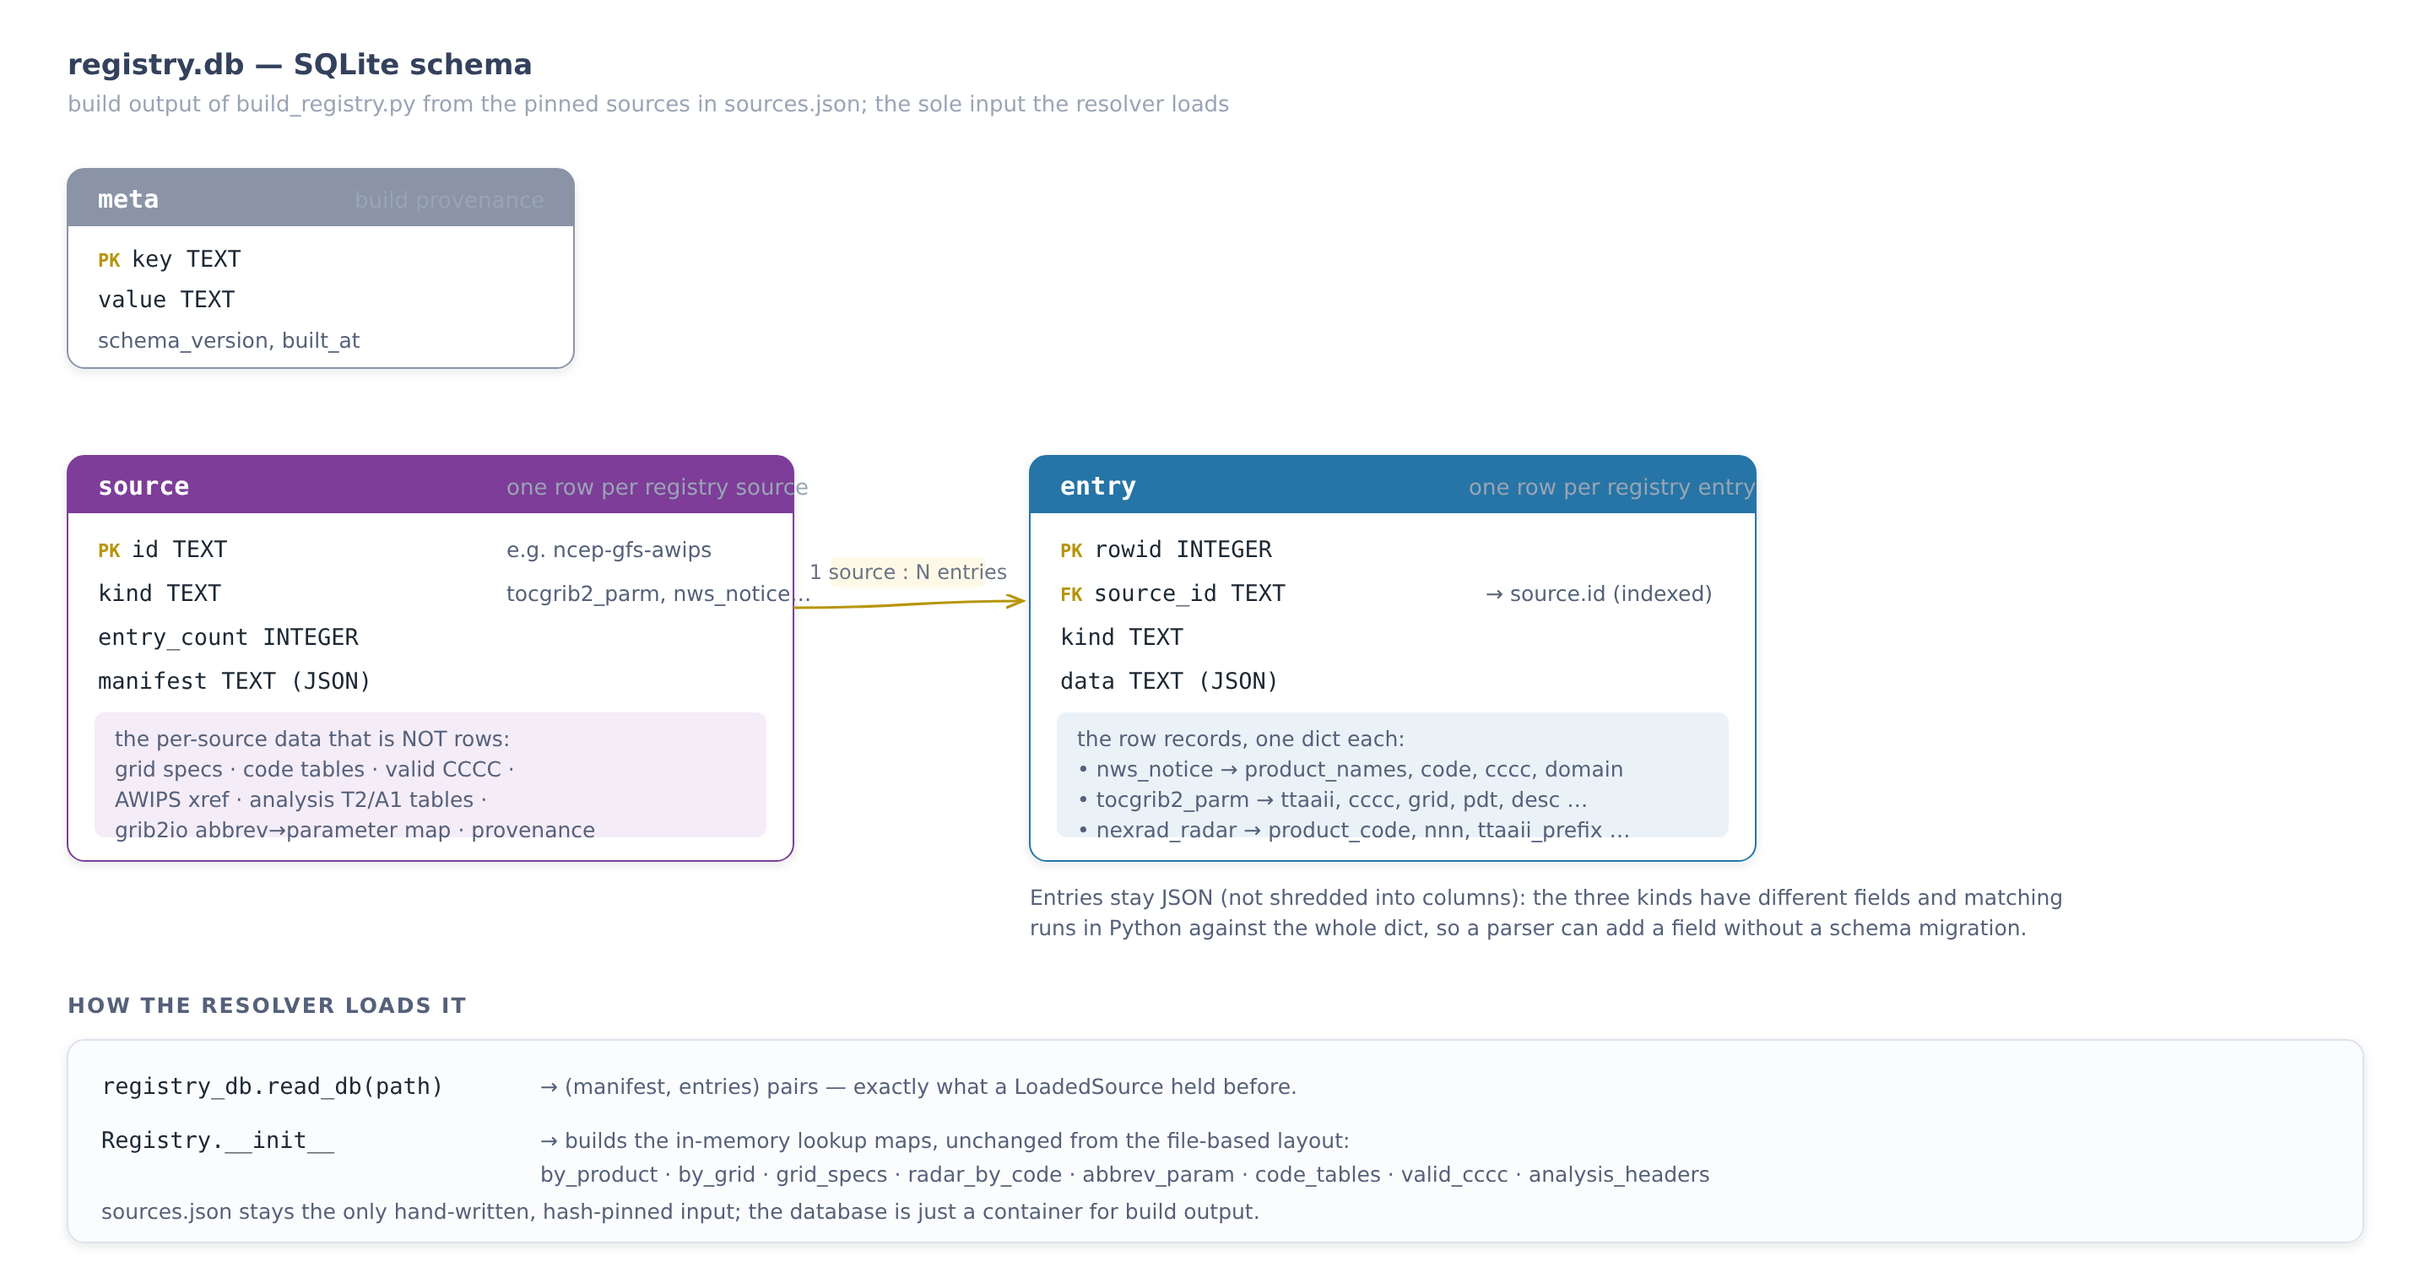
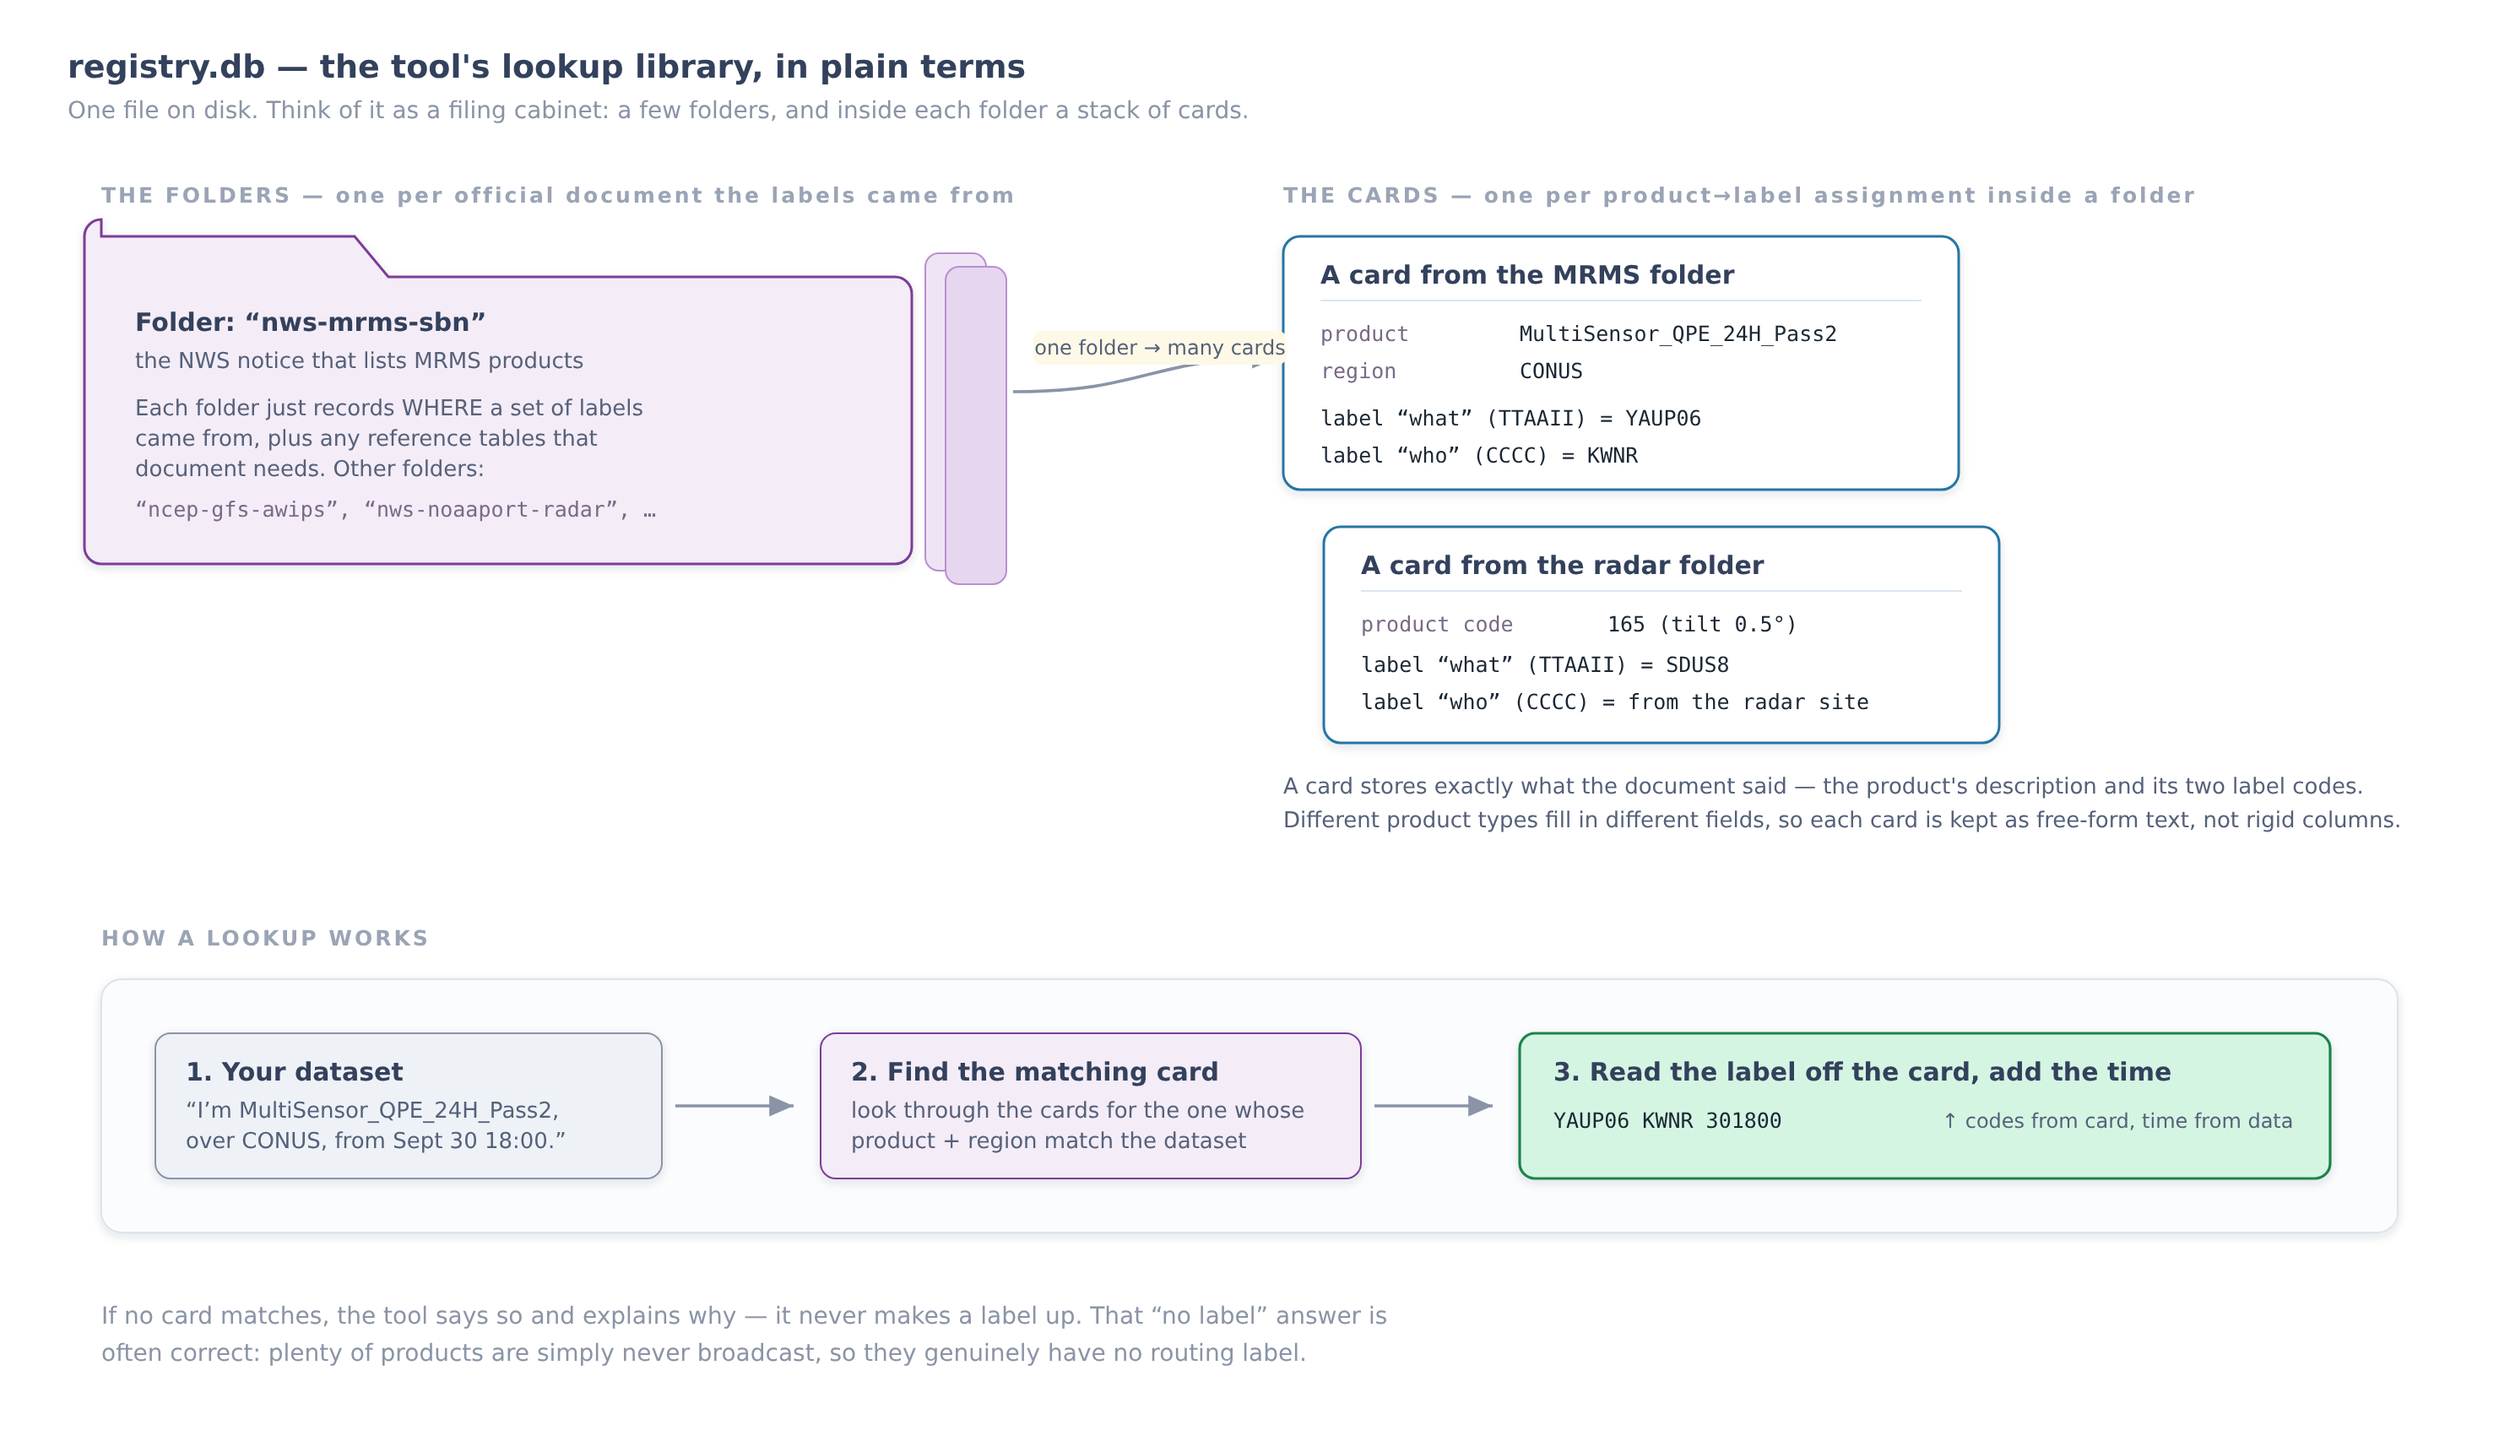
README: rewrite for a non-expert reader; redraw the registry diagram
- Open with a plain-English 'what this does in one minute', decode the label
  (TTAAII/CCCC/YYGGgg) with a picture, and add a jargon glossary up front.
- Add plain-language captions under each diagram so the images are explained in
  words, not just shown.
- Replace the registry schema diagram: it was an ER diagram (PK/FK/JSON) that
  assumed database literacy. New version is a filing-cabinet metaphor with real
  example cards and a concrete 3-step lookup, no SQL jargon.

diff --git a/README.md b/README.md
@@ -1,14 +1,26 @@
 # cirrus_wmo — WMO abbreviated heading resolver
 
-Given a weather product stored in an icechunk / zarr archive, this finds the
-**WMO abbreviated heading** (the "COMMS header") that the product is officially
-disseminated under — or tells you, with a reason, that none exists.
-
-It works for GRIB2 model/analysis products (GFS, GEFS, AQM, HRRR, MRMS,
-RTMA/URMA) and NEXRAD radar (Level II and Level III), across both the GRIB2-array
-and CF icechunk encodings.
-
 Repository: https://github.com/ShaneMill1/WMO_Header_Generator
+
+## What this does, in one minute
+
+Weather data (model forecasts, radar, etc.) gets shipped around the world over a
+shared network. Every file that travels on that network wears a short label on
+the front — the **WMO abbreviated heading** — so the routing computers know what
+it is and where to send it. It looks like this:
+
+```
+YAUP06 KWNR 301800
+```
+
+That label isn't random, and it isn't something you can calculate from the data.
+A person decided, once, "this product gets this label," and wrote it down in an
+official document. This tool answers a simple question:
+
+> I have a weather dataset sitting in storage. **What label would it travel
+> under** — and if it doesn't get one, why not?
+
+You point it at a dataset; it prints the label (or a plain reason there is none):
 
 ```
 $ python read_icechunk.py
@@ -19,27 +31,73 @@ WMO: YAUP06 KWNR 301800
      authority   : nws-mrms-sbn -> MRMS-v12.2-supp
 ```
 
+It handles the common U.S. weather products — model output (GFS, GEFS, AQM, HRRR,
+MRMS, RTMA/URMA) and NEXRAD radar.
+
+## Decoding the label
+
+The heading is four chunks. You don't need to memorize this, but it helps to
+know what the letters mean when you see them below:
+
+```
+YAUP06   KWNR   301800   (BBB)
+  │       │       │        └─ optional: marks a correction/amendment
+  │       │       └─ WHEN:  day 30, 18:00 UTC   (this is the only part from the data)
+  │       └─ WHO:   the office that put it out   (KWNR = a national center)
+  └─ WHAT: the product + region, as a code       (YAUP06 ≈ a specific MRMS product over CONUS)
+```
+
+Jargon you'll meet, defined once:
+
+| Term | Plain meaning |
+| --- | --- |
+| **WMO heading** | the routing label above (`TTAAII CCCC YYGGgg`) |
+| **TTAAII** | the "what + where" code (first chunk, e.g. `YAUP06`) |
+| **CCCC** | the "who sent it" code (e.g. `KWNR`, `KWBC`) |
+| **YYGGgg** | day/hour/minute, computed from the data's timestamp |
+| **disseminated** | actually broadcast on the network (if it isn't, it has no label) |
+| **GRIB2** | the standard file format for gridded model/analysis data |
+| **NEXRAD** | the national weather-radar network |
+| **icechunk / zarr** | the storage format the datasets live in |
+| **registry** | this tool's local database of "which product → which label" |
+
 ## How it works
 
 ![architecture](docs/architecture.png)
 
-Four ideas, left to right:
+**Reading the diagram, left to right:** a dataset comes in (1); the tool reads
+its metadata to figure out *what product it is* (2); it looks that product up in
+a built-in library of official documents that record who assigned which label
+(3); it tries to match (4); and it either prints the label or says, specifically,
+why there is none (5). The one-line version:
 
-1. **Input** — an icechunk / zarr store.
-2. **Identify** — read the store's metadata to work out what the product is.
-   GRIB2 and radar carry different metadata, so each has its own reader.
-3. **Authoritative sources** — a registry built from pinned, hash-verified
-   NWS / NCEP / WMO documents that record who assigned which header.
-4. **Resolve** — match the product against those sources. Either it traces to a
-   record (you get a header) or it does not (you get a clear reason).
+1. **Input** — a dataset in storage (an icechunk / zarr "store").
+2. **Identify** — read the dataset's metadata to work out what the product is.
+   Model data and radar describe themselves differently, so each gets its own
+   reader.
+3. **Authoritative sources** — a local library ("the registry") built from
+   official NWS / NCEP / WMO documents that say which product gets which label.
+   Each document is pinned to an exact version and checksum, so the answers are
+   traceable, not guessed.
+4. **Resolve** — match the product against those sources.
+5. **Result** — either a label (it traced to a record) or an "unresolved" with a
+   clear reason.
 
 ## How the mapping works
 
-Step 4 is the heart of it: the metadata and the authoritative source don't share
-a single common key, so each source family is matched on the fields that source
-actually keys on. In every case the heading's `TTAAII` and `CCCC` come from the
-source; only `YYGGgg` (day/hour/minute) is read from the data — the one exception
-is radar, where `CCCC` is the radar site, also read from the data.
+This is the part that trips people up, so here's the mental model: **it's a
+lookup, not a calculation.** The tool never *builds* a label out of the data. It
+figures out what the product is, finds the one row in an official table that
+already lists that product, and copies the label off that row. The only piece it
+computes is the timestamp (`YYGGgg`), straight from the data's own clock.
+
+The catch is that different products are identified by different things — a radar
+product by its site and tilt, a model field by its grid and variable — so there's
+no single "key" that works for all of them. Each kind of source is matched on the
+fields that source actually uses. The table below is the full breakdown; the one
+rule that holds everywhere is: **`TTAAII` and `CCCC` come from the official
+source, `YYGGgg` comes from the data** (radar is the lone twist — its `CCCC` is
+the radar site, which is also read from the data).
 
 | Source | Fields read from the store | Matched against | Produces the header by |
 | --- | --- | --- | --- |
@@ -72,14 +130,18 @@ Two details worth calling out:
 
 ### Worked example (MRMS)
 
-It helps to think of resolving as a **join**: the store metadata is one row, the
-authoritative source is a table of products someone already assigned headers to,
-and we join on whatever key identifies the product. The matching row *contains*
-the header — we read it out, we don't compute it.
+Picture two tables side by side. On the left, the one dataset you're holding. On
+the right, a long list of products someone already assigned labels to. You find
+the row on the right that describes your dataset, and read the label off it.
+That's the whole trick — the matching row *already contains* the answer.
 
 ![how a header is resolved](docs/resolve_example.png)
 
-Concretely, for the MRMS example at the top:
+**Reading the diagram:** your dataset's metadata (left) is matched to one row in
+the MRMS source table (middle); the label fields on that row — highlighted in
+green — are copied straight into the final heading (right). Only the timestamp is
+filled in from the data. Here it is step by step, for the MRMS example at the
+top of this README:
 
 1. **Read the identity from the store.** The variable's metadata gives
    `short_name = "MultiSensor_QPE_24H_Pass2"` and `time = 2025-09-30T18:00`; the
@@ -356,9 +418,28 @@ document, cited per entry in the database.
 
 ### Registry database
 
-`build_registry.py` writes `registry/registry.db`. It has three tables — `meta`
-(build provenance), `source` (one row per source; the per-source manifest as
-JSON), and `entry` (one row per record; the record as JSON) — and the resolver
-loads it back into the same in-memory lookup maps it always used. See the schema:
+The "registry" is just one SQLite file, `registry/registry.db` — the local
+library of official product-to-label mappings the tool looks things up in. You
+build it once (or let the tool build it on first run) and then every lookup is
+offline.
 
 ![registry schema](docs/registry_schema.png)
+
+**Reading the diagram — picture a filing cabinet:**
+
+- **Folders** — one per official document the labels came from (the MRMS notice,
+  the GFS config, the radar table, …). A folder just records *where* a set of
+  labels came from, plus any reference tables that document needs.
+- **Cards** — inside each folder, one card per product-to-label assignment. A
+  card holds what the document said: the product's description and its two label
+  codes (the "what" `TTAAII` and the "who" `CCCC`). One folder holds many cards.
+- **A lookup** (bottom strip) — the tool takes your dataset, finds the one card
+  whose product matches, reads the two codes off it, and stamps on the time from
+  the data. If no card matches, it says so and explains why — it never invents a
+  label.
+
+Under the hood those "folders" and "cards" are two SQLite tables (`source` and
+`entry`, plus a tiny `meta` table of build info). Each card is stored as a
+free-form text blob rather than fixed columns, because the three product types —
+notice, model, radar — fill in different fields, and a new field should never
+force a database change.
